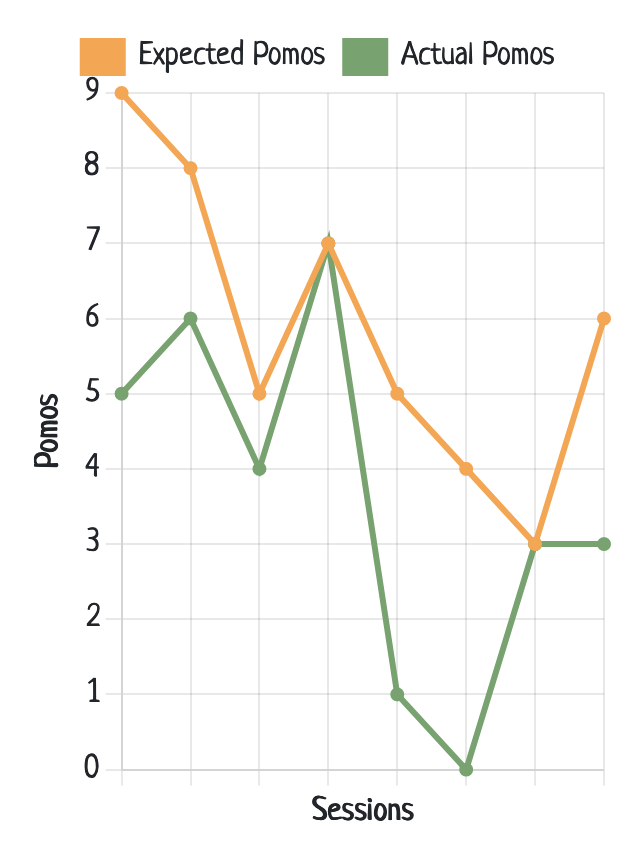
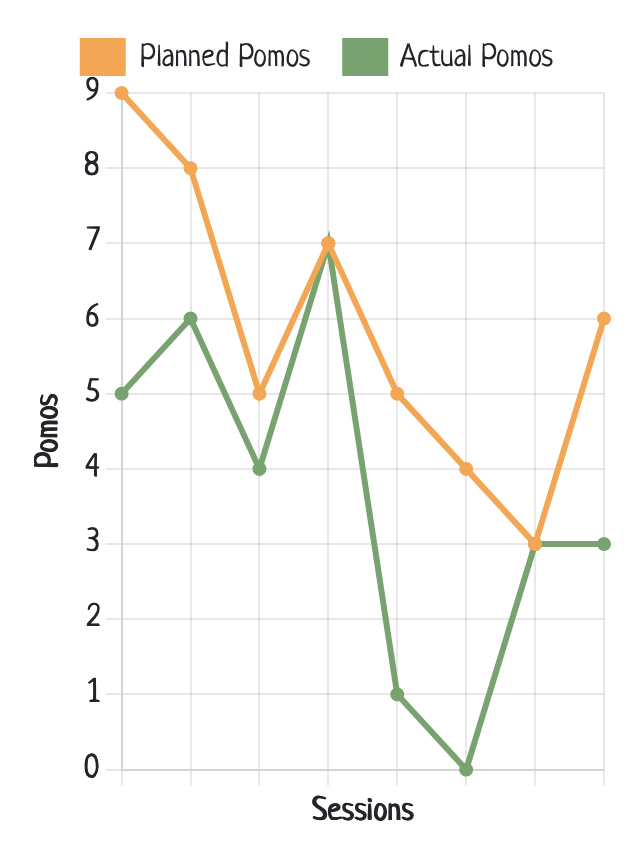
Update instruction card images and content

Changed region(s): [[0.2181, 0.0308, 0.4984, 0.0924], [0.6231, 0.0308, 0.8723, 0.0924]]

diff --git a/source/js/components/InfoModal.js b/source/js/components/InfoModal.js
@@ -40,7 +40,7 @@ class InfoModal extends HTMLElement {
                 <div class="card-description">
                   <img class="desktop-image" src=${CreateTaskListImage} alt="Create Task List View"/>
                   <img class="mobile-image" src=${CreateTaskListMobileImage} alt="Create Task List View"/>
-                  <p>Each task asks for a name, and the planned Pomodoros that will be needed (1-5). Once you've finished making your tasks, start your session!</p>
+                  <p>Each task asks for a name, and the planned Pomodoros that will be needed. Once you've finished making your tasks, start your session! (TIP: Use CTRL + Arrow keys to quickly change the number of planned pomos!)</p>
                 </div>
               </div>
               <p class="card-endnote">Don't know what a Pomodoro is? A Pomodoro is an aspect of the Pomodoro Technique. The technique pushes the user to work on tasks in 25 minute chunks (Pomodoros) with breaks between, and long breaks after 4 Pomodoros.</p>
